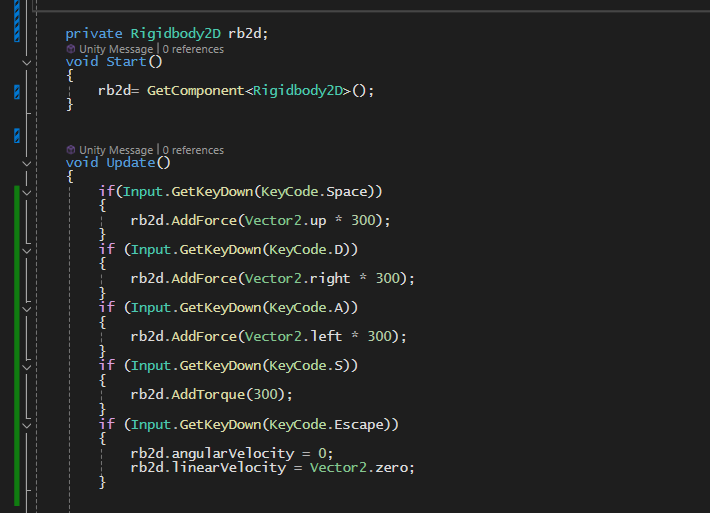
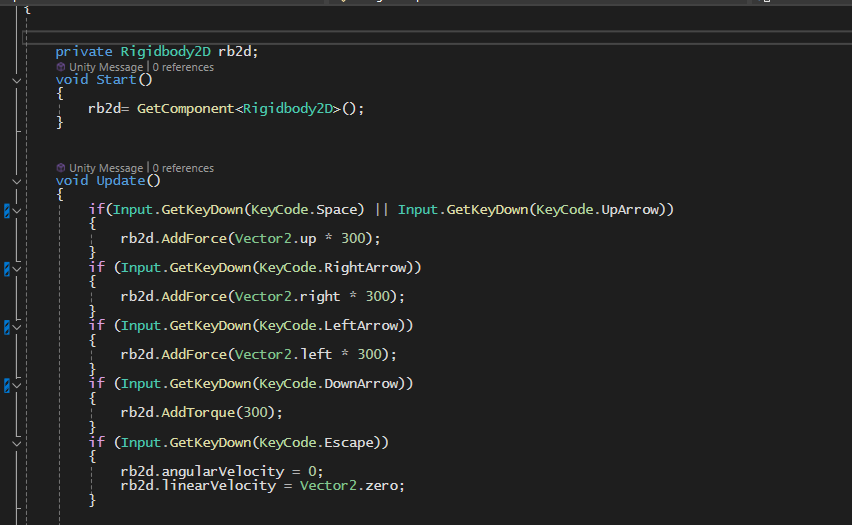
hw2

Changed region(s): [[0.0, 0.0, 1.0, 1.0], [0.5268, 0.5302, 0.5887, 0.5614], [0.093, 0.9357, 0.1239, 0.9669]]

diff --git a/Assets/Scripts/HexagonScript.cs b/Assets/Scripts/HexagonScript.cs
@@ -13,19 +13,19 @@ public class HexagonScript : MonoBehaviour
 
     void Update()
     {
-        if(Input.GetKeyDown(KeyCode.Space))
+        if(Input.GetKeyDown(KeyCode.Space) || Input.GetKeyDown(KeyCode.UpArrow))
         {
             rb2d.AddForce(Vector2.up * 300);
         }
-        if (Input.GetKeyDown(KeyCode.D))
+        if (Input.GetKeyDown(KeyCode.RightArrow))
         {
             rb2d.AddForce(Vector2.right * 300);
         }
-        if (Input.GetKeyDown(KeyCode.A))
+        if (Input.GetKeyDown(KeyCode.LeftArrow))
         {
             rb2d.AddForce(Vector2.left * 300);
         }
-        if (Input.GetKeyDown(KeyCode.S))
+        if (Input.GetKeyDown(KeyCode.DownArrow))
         {
             rb2d.AddTorque(300);
         }
